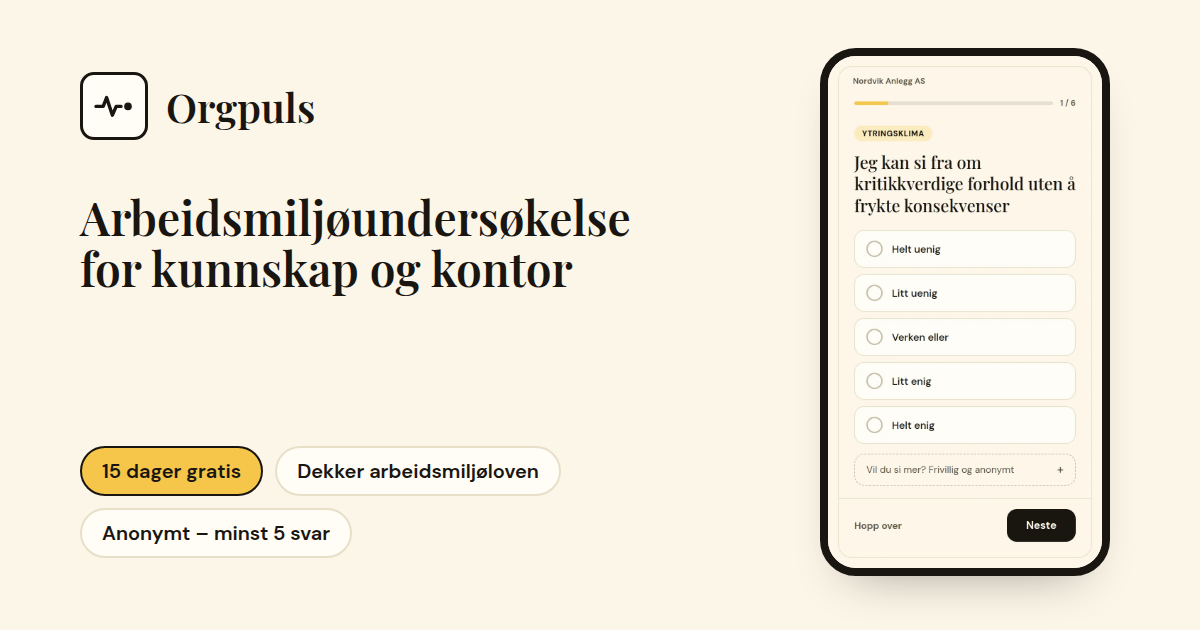
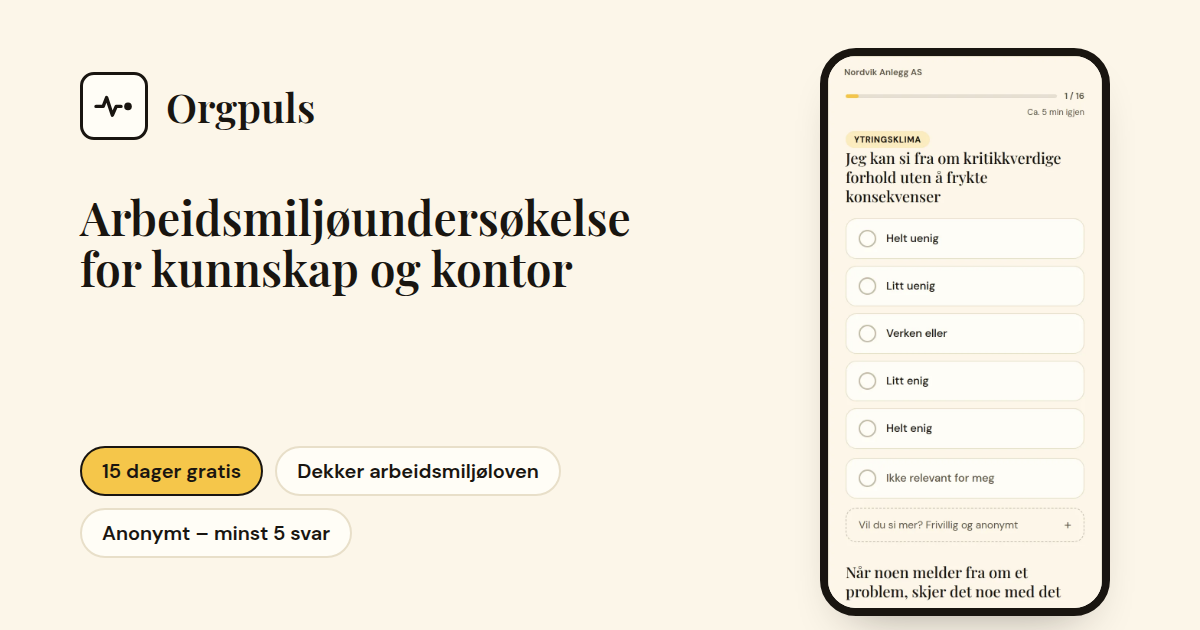
Product shots recaptured from the demo organisation; the survey card is a real screen; share cards regenerated
- scripts/marketing/product-shots.mjs: the survey shot is the 2026 main survey (fixture round
  …0002), past the intro page every respondent now meets (D-150), cut to the phone shape the
  site's card shows; a `click` step for it. Every shot recaptured against the reseeded fixture.
- Plattform «Slik er det å svare»: the screenshot, framed as the design frames it, replaces the
  drawn survey mock; its alt text says what is on it (page 1 of 16, six answers, the comment).
- Share cards regenerated with the new shots; the site's own card (og.png) carries the first
  slide's title, since the front page's H1 is screen-reader only and opens with the brand.

Claude-Session: https://claude.ai/code/session_01U8NqjgPf4GAveNTnTAzZjT

diff --git a/app/(marketing)/plattform/page.tsx b/app/(marketing)/plattform/page.tsx
@@ -9,7 +9,7 @@ import { StartBand } from '@/components/site/v3/StartBand'
 import { pageMeta } from '@/lib/marketing/meta'
 import { breadcrumbs, graph, organization } from '@/lib/marketing/schema'
 import { zip } from '@/lib/site/zip'
-import { SurveyMock } from './SurveyMock'
+import sporsmal from '@/assets/produkt/sporsmal.webp'
 
 /**
  * Plattform (D-190): design-reference/orgpuls/nettside-v3/Plattform.dc.html.
@@ -158,7 +158,20 @@ export default async function PlattformPage() {
         })}
       </ol>
     ),
-    respondent: <SurveyMock />,
+    // the respondent flow as an employee meets it on a phone: a real screen of the demo
+    // organisation's main survey (scripts/marketing/product-shots.mjs), framed as the design frames it
+    respondent: (
+      <div className="-mx-[8px] -my-[6px] overflow-hidden rounded-[13px] border border-line">
+        {/* eslint-disable-next-line @next/next/no-img-element -- eager and sized, as the design draws it (D-190 §21) */}
+        <img
+          src={sporsmal.src}
+          width={sporsmal.width}
+          height={sporsmal.height}
+          alt={all('seo.shots.sporsmal.alt')}
+          className="block h-auto w-full"
+        />
+      </div>
+    ),
     resultater: (
       <Rows
         rows={resultRows.map((r) => ({
